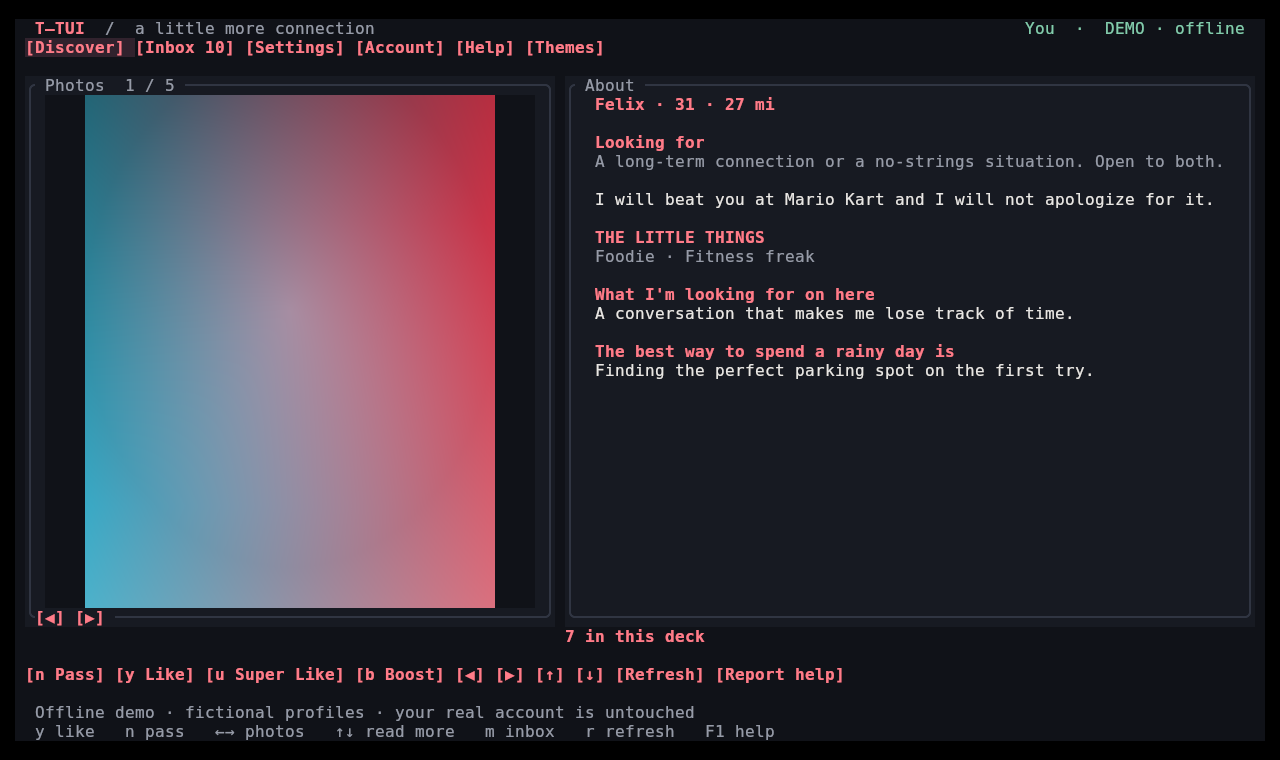
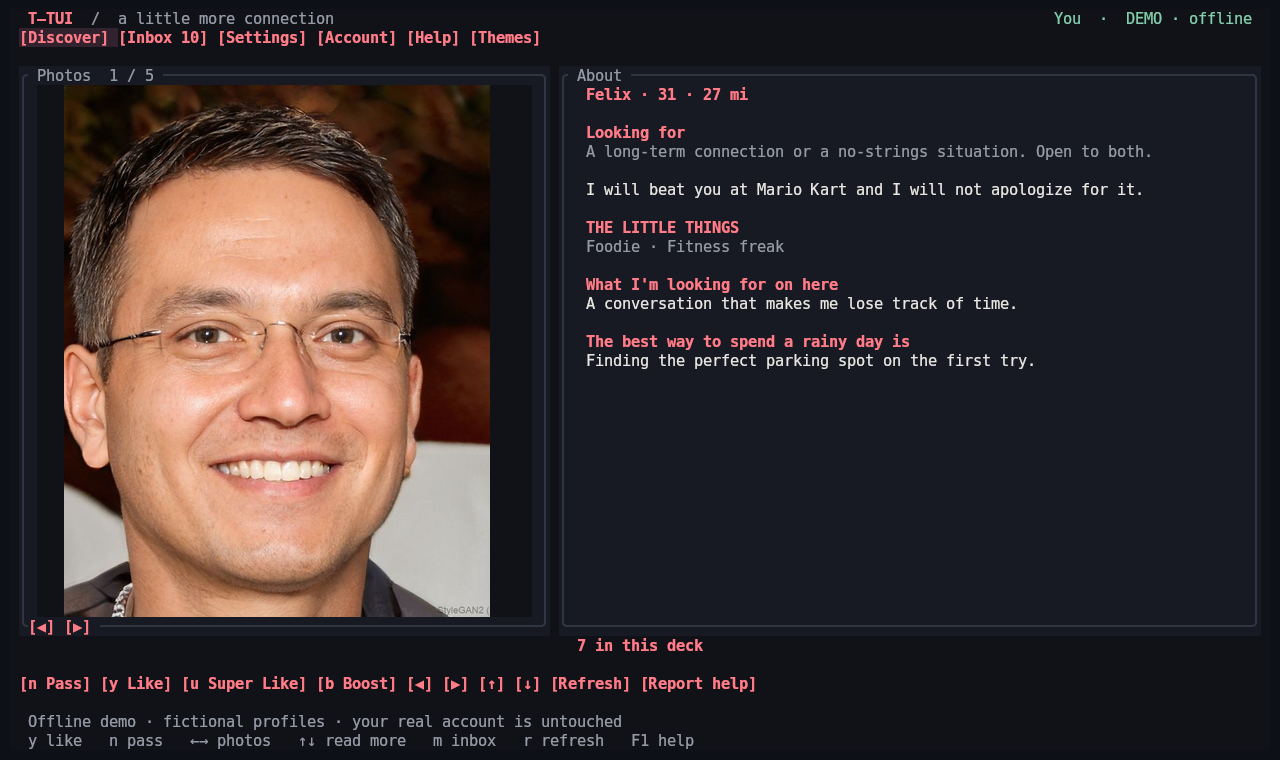
docs: realistic synthetic demo faces in README media (#13)

diff --git a/src/mock.rs b/src/mock.rs
@@ -1,6 +1,7 @@
 //! Offline mock implementation of [`TinderApi`] for development and demos.
 //! Data is deterministic; photos are generated gradient PNGs written to the
-//! photo cache on first access. Simulates auto-replies and a delayed new
+//! photo cache on first access, or synthetic faces from `TTUI_DEMO_PHOTOS`
+//! when capturing README media. Simulates auto-replies and a delayed new
 //! match so the polling UI has something to show.
 
 use std::collections::{HashMap, HashSet};
@@ -265,6 +266,16 @@ impl MockApi {
 
     /// Generate (or reuse) a gradient PNG for the given photo path.
     fn ensure_photo(&self, path: &std::path::Path, seed: u64) -> Result<(), ApiError> {
+        if let Some(dir) = std::env::var_os("TTUI_DEMO_PHOTOS")
+            && let Some(img) = Self::demo_photo(std::path::Path::new(&dir), path)
+        {
+            if let Some(parent) = path.parent() {
+                std::fs::create_dir_all(parent).map_err(|e| ApiError::Other(e.to_string()))?;
+            }
+            return img
+                .save(path)
+                .map_err(|e| ApiError::Other(format!("saving mock photo: {e}")));
+        }
         if path.exists() {
             return Ok(());
         }
@@ -301,6 +312,25 @@ impl MockApi {
         image::DynamicImage::ImageRgba8(img)
             .save(path)
             .map_err(|e| ApiError::Other(format!("saving mock photo: {e}")))
+    }
+
+    /// Load a screenshot-capture face for `mock-user-N_J.png` from
+    /// `dir/mock-user-N.jpg` (see docs/demo-faces). Later photos in a profile
+    /// are flipped or zoomed variants so the carousel visibly changes.
+    fn demo_photo(dir: &std::path::Path, path: &std::path::Path) -> Option<image::DynamicImage> {
+        let stem = path.file_stem()?.to_str()?;
+        let (person, index) = stem.rsplit_once('_')?;
+        let index: u32 = index.parse().ok()?;
+        let img = image::open(dir.join(format!("{person}.jpg"))).ok()?;
+        let img = if index % 2 == 1 { img.fliph() } else { img };
+        Some(if index >= 2 {
+            let (w, h) = (img.width(), img.height());
+            let (cw, ch) = (w * 4 / 5, h * 4 / 5);
+            img.crop_imm((w - cw) / 2, (h - ch) / 3, cw, ch)
+                .resize_exact(w, h, image::imageops::FilterType::Lanczos3)
+        } else {
+            img
+        })
     }
 
     /// Derive a deterministic "seed" from a path so photos are stable.

diff --git a/docs/demo-faces/README.md b/docs/demo-faces/README.md
@@ -1,0 +1,30 @@
+# Demo faces
+
+These 19 portraits are used only to capture the README tour and screenshots.
+They are **not** shipped in the binary, npm package or release archives; a
+normal `ttui --mock` still draws generated gradient placeholders.
+
+## Provenance
+
+- Source: [thispersondoesnotexist.com](https://thispersondoesnotexist.com/),
+  which serves StyleGAN2 images of people who do not exist. Downloaded
+  2026-10-28, one image per request.
+- Every image depicts a synthetic adult. None shows a real person, and none
+  comes from Tinder or any personal photo.
+- Edits: center-cropped from 1024×1024 to the app's 4:5 portrait ratio,
+  resized to 640×800 and saved as JPEG.
+- The StyleGAN2 model is published by NVIDIA under the
+  [NVIDIA Source Code License](https://github.com/NVlabs/stylegan2/blob/master/LICENSE.txt);
+  generated images are used here for illustration only.
+
+## Capturing README media
+
+`mock-user-N.jpg` maps to demo profile `N` (`mock-own-user.jpg` is your own
+demo profile). Point the demo at this folder; later photos in a profile are
+flipped or zoomed variants:
+
+```sh
+TTUI_DEMO_PHOTOS=docs/demo-faces ttui --mock
+```
+
+Use a terminal with Kitty or Sixel graphics so the photos render as pixels.

diff --git a/README.md b/README.md
@@ -8,9 +8,9 @@
 
 [**Install**](#-install) · [**Features**](#-features) · [**Screenshots**](#-screenshots) · [**Keys**](#%EF%B8%8F-keyboard-shortcuts) · [**FAQ**](#-faq) · [**Releases**](https://github.com/mikimatsub/T-Tui/releases)
 
-<img src="https://raw.githubusercontent.com/mikimatsub/T-Tui/main/docs/assets/tour.webp" alt="Animated tour of the offline demo in a graphics-capable terminal: inbox with photo previews, discovery photo carousel, chat and a full profile, all with fictional data" width="860">
+<img src="https://raw.githubusercontent.com/mikimatsub/T-Tui/main/docs/assets/tour.webp" alt="Animated tour of the offline demo with AI-generated faces of people who do not exist: inbox with photo previews, discovery photo carousel, chat and a full profile, all with fictional data" width="860">
 
-<sub>Recorded from <code>ttui --mock</code>. Every profile and photo is fictional.</sub>
+<sub>Recorded from <code>ttui --mock</code>. Every profile is fictional; the faces are AI-generated and depict no real person (<a href="https://github.com/mikimatsub/T-Tui/tree/main/docs/demo-faces">details</a>).</sub>
 
 </div>
 

diff --git a/CHANGELOG.md b/CHANGELOG.md
@@ -2,6 +2,10 @@
 
 ## Unreleased
 
+### Docs
+
+- README tour and screenshots now show AI-generated faces of people who do not exist instead of gradient placeholders. The faces live in `docs/demo-faces` (provenance documented) and are loaded only when `TTUI_DEMO_PHOTOS` is set, so the shipped package does not grow.
+
 ### Fixed
 
 - Sending a message now saves the cleared draft immediately, so a crash or forced close right after sending cannot bring the sent text back as a draft. The Windows end-to-end test waits for the app to be ready and polls the saved file instead of sleeping.
